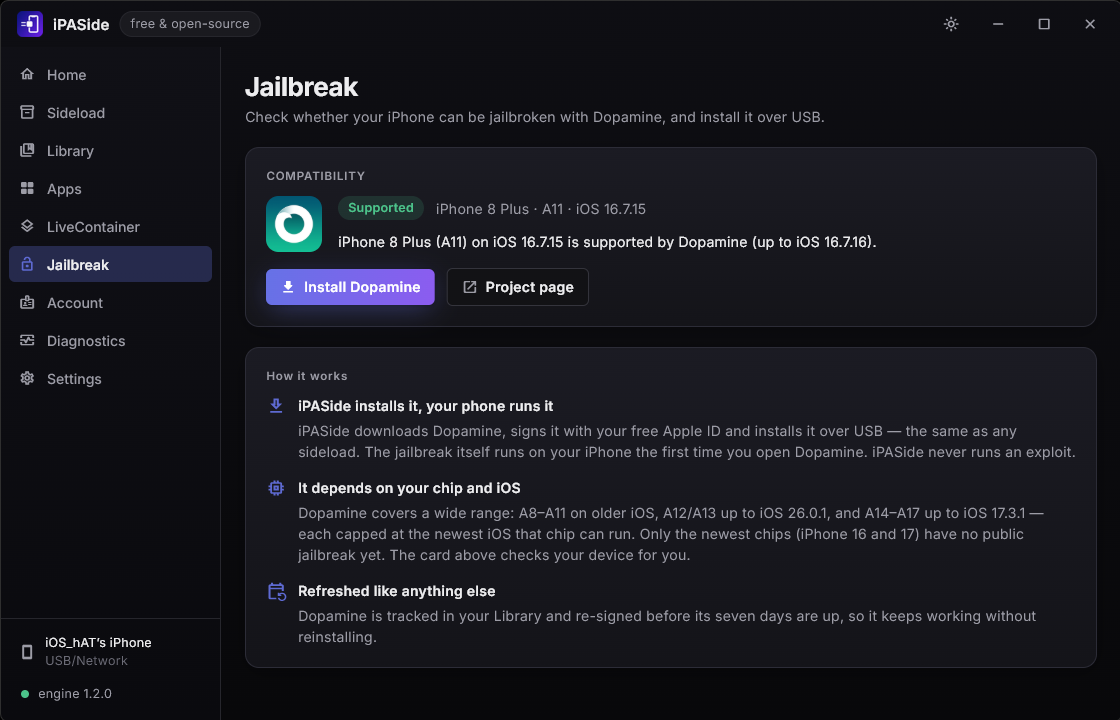
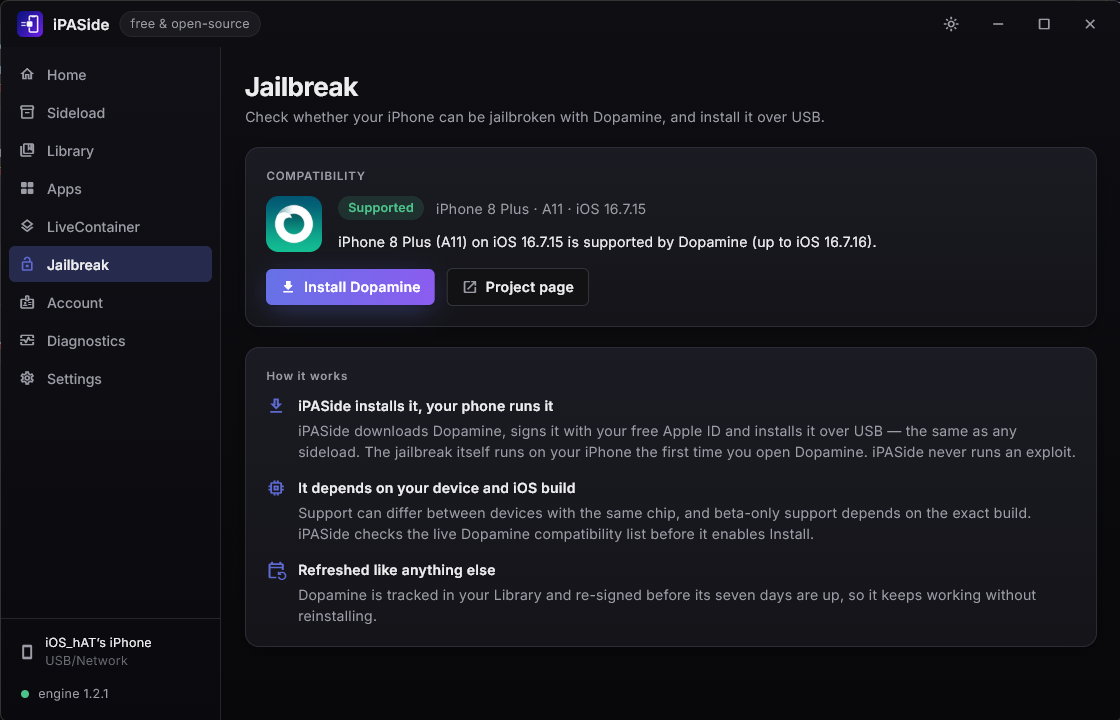
release: 1.2.1
Ship exact-build Dopamine compatibility and fail-closed install targeting, with an isolated portable-engine build and refreshed Jailbreak screenshot.

Changed region(s): [[0.2188, 0.6722, 0.9375, 0.9167]]

diff --git a/src/iPASide.Flutter/lib/app_version.dart b/src/iPASide.Flutter/lib/app_version.dart
@@ -6,7 +6,7 @@ import 'dart:io';
 /// in a plugin, so it is mirrored here and `test/app_version_test.dart` fails the
 /// build if the two ever drift — a stale value would make the updater compare
 /// against the wrong version and either nag forever or never offer an update.
-const String kAppVersion = '1.2.0';
+const String kAppVersion = '1.2.1';
 
 /// Version the in-app updater compares against.
 ///

diff --git a/src/iPASide.Engine/ipaside_engine/__init__.py b/src/iPASide.Engine/ipaside_engine/__init__.py
@@ -11,4 +11,4 @@ This package is intentionally usable stand-alone as a CLI:
     python -m ipaside_engine devices
 """
 
-__version__ = "1.2.0"
+__version__ = "1.2.1"

diff --git a/CHANGELOG.md b/CHANGELOG.md
@@ -4,6 +4,23 @@ All notable changes to iPASide are documented here. This project adheres to
 [Semantic Versioning](https://semver.org/) and
 [Keep a Changelog](https://keepachangelog.com/).
 
+## [1.2.1] - 2026-08-13
+
+### Fixed
+
+- **Dopamine compatibility is device- and build-aware.** A12 iPhones retain
+  their real iOS 18 ceiling while eligible A12/A12X/A12Z iPads reach iPadOS
+  26.0.1. Dopamine 3.0.5's iOS/iPadOS 26.1 beta 1–3 support is matched by exact
+  build number, so the patched 26.1 final release is never accepted by mistake.
+- **Install revalidates and pins the target device.** The engine now checks the
+  live compatibility list immediately before downloading, then installs to that
+  exact resolved UDID; direct CLI calls and a device swap cannot bypass the
+  compatibility gate.
+- **The compatibility catalog now covers missing and mislabeled hardware.**
+  Legacy A8X/A9X/A10X iPads, current iPads through M5, iPod touch models, and
+  iPhone 17e are represented with model-specific firmware ceilings. The remote
+  schema is validated before any rule can influence installation.
+
 ## [1.2.0] - 2026-08-13
 
 ### Added
